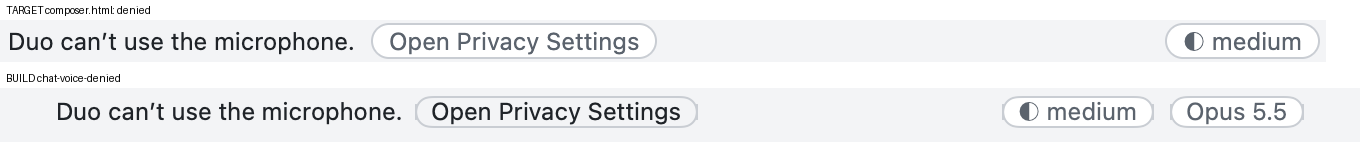
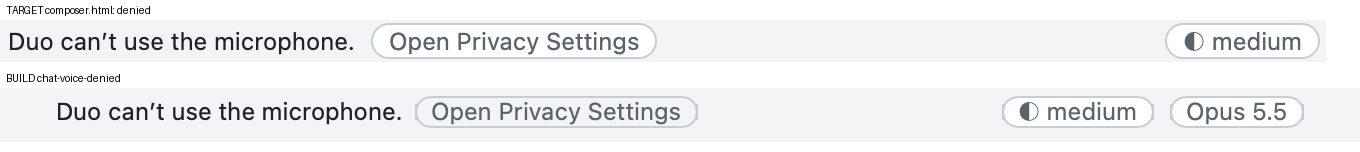
Voice input: first-press sheet capture, denied pill re-captured, numeric measurements and terminal proofs
Claude-Session: https://claude.ai/code/session_01LhGdJXrD3KmnvLNmq6ALv6

Changed region(s): [[0.3088, 0.6842, 0.525, 0.8158]]

diff --git a/Sources/DuoKit/Shell/DuoQuestion.swift b/Sources/DuoKit/Shell/DuoQuestion.swift
@@ -247,13 +247,14 @@ struct QuestionSheet: View {
                                 Text(i.what).duoText(.body).fixedSize(horizontal: false, vertical: true)
                                 if !i.path.isEmpty {
                                     if i.sub {
-                                        Text(i.path).duoText(.body).foregroundStyle(DuoColor.text2).fixedSize(horizontal: false, vertical: true)
+                                        Text(i.path).duoText(.control).foregroundStyle(DuoColor.text2).fixedSize(horizontal: false, vertical: true).padding(.top, 4)
                                     } else {
                                     Text(i.path).duoText(.mono, lineHeight: DuoTextStyle.body.spec.lineHeight).foregroundStyle(DuoColor.text2)
                                         .lineLimit(1).truncationMode(.middle)
                                     }
                                 }
                             }
+                            .padding(.vertical, i.sub ? 6 : 0)
                         }
                     }
                 }

diff --git a/scripts/voice-measure.py b/scripts/voice-measure.py
@@ -1,0 +1,42 @@
+from PIL import Image
+from collections import deque
+R = '/Users/geoff/repos/duo-v2/.claude/worktrees/voice-input'
+K = 1.44
+T = Image.open(R + '/docs/design/voice-input-handoff/screens/png/composer@2x.png').convert('RGB')
+P = R + '/docs/design/voice-input-handoff/proof/'
+
+def flood(img, seed, tol=3):
+    c = img.getpixel(seed)
+    seen, q = {seed}, deque([seed])
+    px = img.load()
+    while q:
+        x, y = q.popleft()
+        for dx, dy in ((1, 0), (-1, 0), (0, 1), (0, -1)):
+            n = (x + dx, y + dy)
+            if n in seen or not (0 <= n[0] < img.width and 0 <= n[1] < img.height): continue
+            p = px[n]
+            if all(abs(p[i] - c[i]) <= tol for i in range(3)):
+                seen.add(n); q.append(n)
+    xs = [p[0] for p in seen]; ys = [p[1] for p in seen]
+    return c, (min(xs), min(ys), max(xs), max(ys)), len(seen)
+
+def show(label, img, seed):
+    c, b, n = flood(img, seed)
+    print(f"{label:22} seed fill {c}: {(b[2]-b[0]+1)/2:.1f} x {(b[3]-b[1]+1)/2:.1f} pt, {n} px")
+    return b
+
+def d(x, y): return (int(x * K), int(y * K))
+tb = show('target hover circle', T, d(1930 - 13, 205 + 12))
+bimg = Image.open(P + 'hover-build.png').convert('RGB')
+bb = show('build  hover circle', bimg, (1265 - 14, 65 + 14))
+print(f"   build circle: right {(bimg.width - bb[2] - 1) / 2:.1f} pt from the crop's right edge")
+tl = show('target listening', T, d(952 - 13, 628 + 12))
+bl_img = Image.open(P + 'listening-build.png').convert('RGB')
+bl = show('build  listening', bl_img, (1265 - 14, 65 + 14))
+
+A = Image.open(R + '/docs/design/voice-input-handoff/screens/png/composer-appearances@2x.png').convert('RGB')
+for name, x in (('dark', 1239), ('classic', 1884), ('light', 595)):
+    t = show(f'target {name} mic', A, d(x - 12, 273 + 11))
+    if name != 'light':
+        bi = Image.open(P + f'listening-{name}-build.png').convert('RGB')
+        show(f'build  {name} mic', bi, (1265 - 14, 65 + 14))
